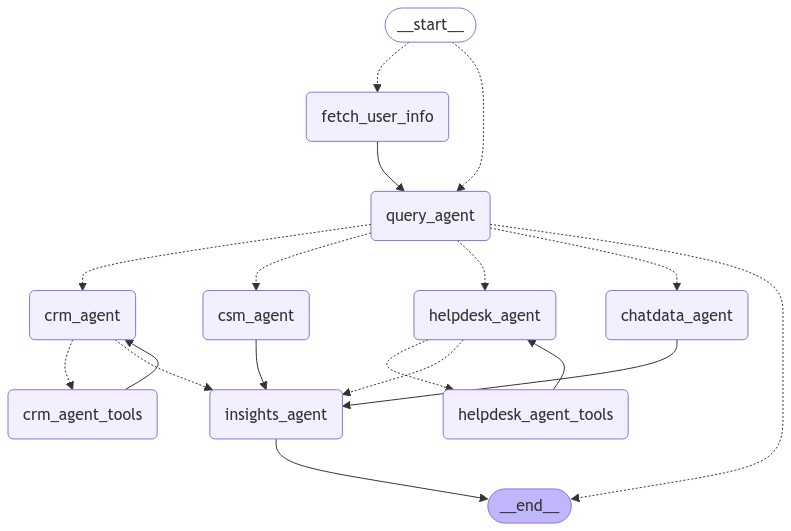
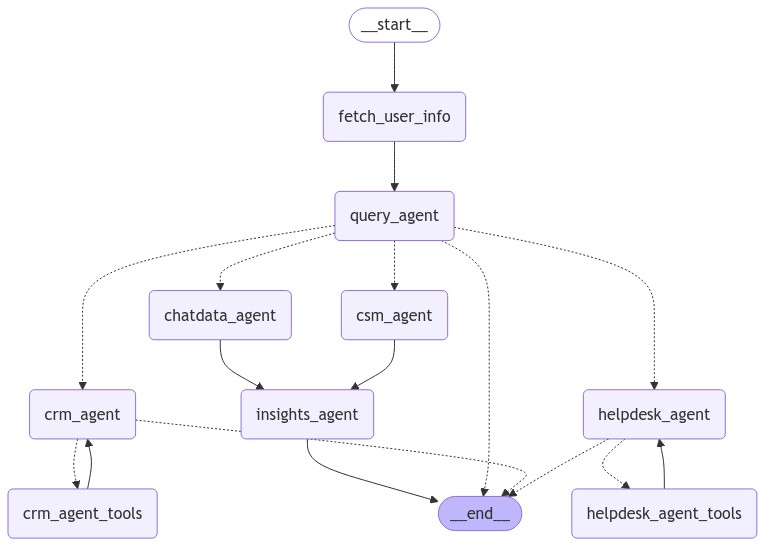
feat: remove insights agent for crm and helpdesk

diff --git a/customer_insights/graph.py b/customer_insights/graph.py
@@ -19,13 +19,6 @@ from customer_insights.agents import (
 from customer_insights.utils import create_tool_node_with_fallback
 
 
-def route_entry_point(state: AgentStateGraph):
-    if "user_info" in state:
-        return "query_agent"
-    else:
-        return "fetch_user_info"
-
-
 def route_query_agent(state: AgentStateGraph):
     last_message = state["messages"][-1]
     if not last_message.tool_calls:
@@ -42,19 +35,19 @@ def route_query_agent(state: AgentStateGraph):
 
 def route_crm_agent(
     state: AgentStateGraph,
-) -> Literal["crm_agent_tools", "insights_agent"]:
+) -> Literal["crm_agent_tools", "__end__"]:
     tool_calls = state["messages"][-1].tool_calls
     if not tool_calls:
-        return "insights_agent"
+        return "__end__"
     return "crm_agent_tools"
 
 
 def route_helpdesk_agent(
     state: AgentStateGraph,
-) -> Literal["helpdesk_agent_tools", "insights_agent"]:
+) -> Literal["helpdesk_agent_tools", "__end__"]:
     tool_calls = state["messages"][-1].tool_calls
     if not tool_calls:
-        return "insights_agent"
+        return "__end__"
     return "helpdesk_agent_tools"
 
 
@@ -75,10 +68,7 @@ def create_insights_graph(memory):
     graph_builder.add_node("chatdata_agent", chatdata_agent)
     graph_builder.add_node("insights_agent", insights_agent)
 
-    graph_builder.set_conditional_entry_point(
-        route_entry_point,
-        {"fetch_user_info": "fetch_user_info", "query_agent": "query_agent"},
-    )
+    graph_builder.add_edge(START, "fetch_user_info")
     graph_builder.add_edge("fetch_user_info", "query_agent")
     graph_builder.add_conditional_edges(
         "query_agent",
@@ -95,7 +85,7 @@ def create_insights_graph(memory):
     graph_builder.add_conditional_edges(
         "crm_agent",
         route_crm_agent,
-        {"crm_agent_tools": "crm_agent_tools", "insights_agent": "insights_agent"},
+        {"crm_agent_tools": "crm_agent_tools", "__end__": "__end__"},
     )
     graph_builder.add_edge("crm_agent_tools", "crm_agent")
 
@@ -104,7 +94,7 @@ def create_insights_graph(memory):
         route_helpdesk_agent,
         {
             "helpdesk_agent_tools": "helpdesk_agent_tools",
-            "insights_agent": "insights_agent",
+            "__end__": "__end__",
         },
     )
     graph_builder.add_edge("helpdesk_agent_tools", "helpdesk_agent")
